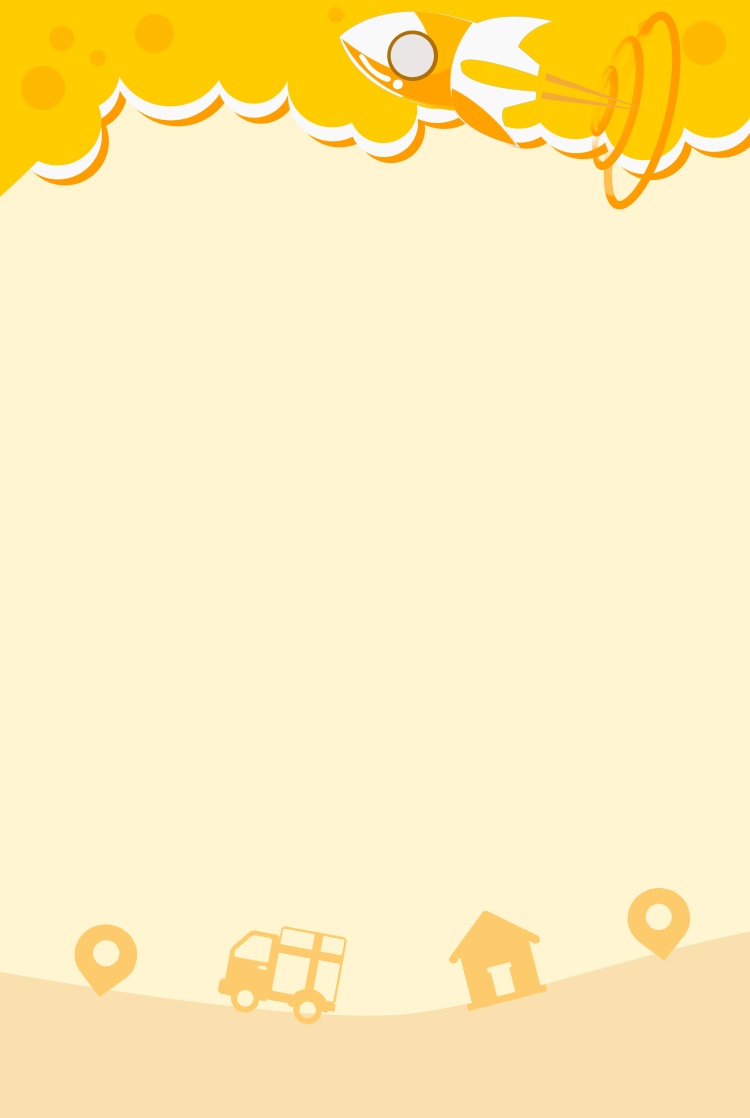
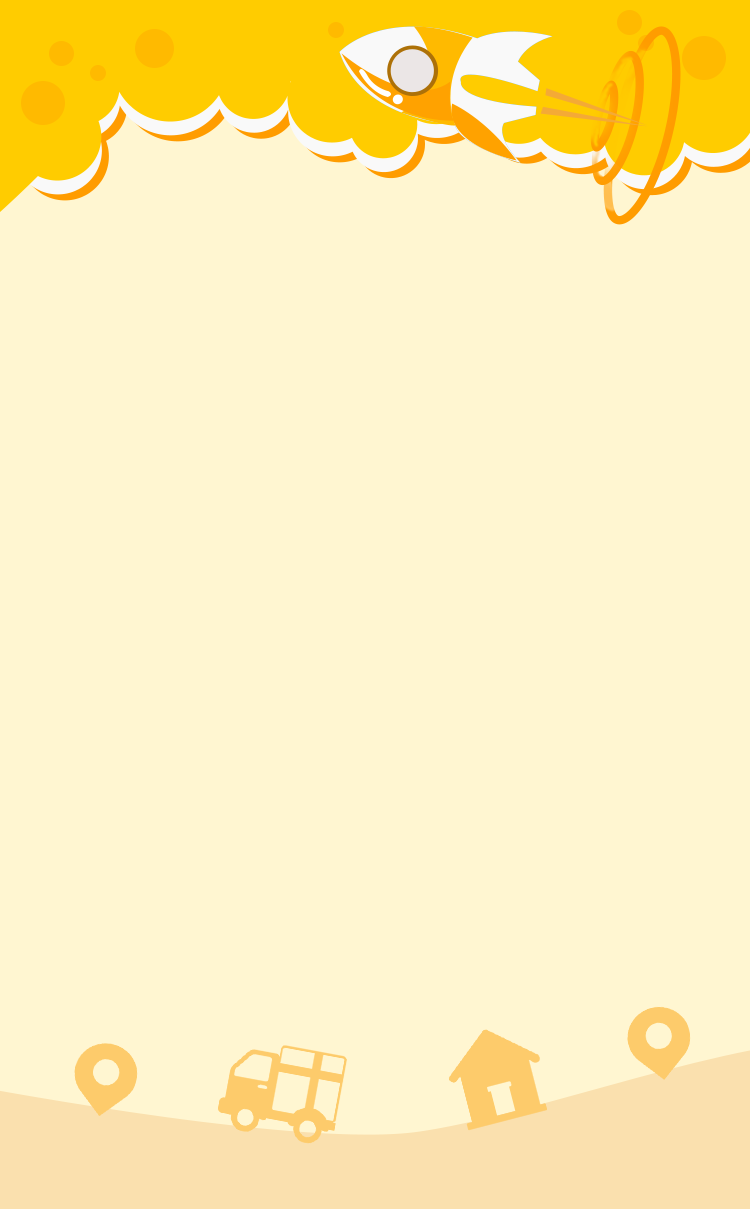
首页改版

Changed region(s): [[0.0, 0.7907, 1.0, 0.9428], [0.092, 0.0, 1.0, 0.1825], [0.828, 0.0, 0.92, 0.0608]]

diff --git a/css/logistics.css b/css/logistics.css
@@ -3,7 +3,6 @@ i,em{
 	font-style:normal;
 }
 img{
-	max-width:100%;
 	width:100%;
 }
 
@@ -12,16 +11,16 @@ input:-webkit-autofill {
   -webkit-text-fill-color: #fff;
 }
 input::-webkit-input-placeholder { /* WebKit browsers */
-  color: #6c6c6b;
+  color: #8d8d8b;
 }
 input:-moz-placeholder { /* Mozilla Firefox 4 to 18 */
-  color: #6c6c6b;
+  color: #8d8d8b;
 }
 input::-moz-placeholder { /* Mozilla Firefox 19+ */
-  color: #6c6c6b;
+  color: #8d8d8b;
 }
 input:-ms-input-placeholder { /* Internet Explorer 10+ */
-  color: #6c6c6b;
+  color: #8d8d8b;
 }
 *{
 	box-sizing:border-box;
@@ -53,47 +52,34 @@ body{
 	position:absolute;
 	left:10px;
 	top:11px;
+	z-index:1;
 }
 .l-i-con{
 	position:relative;
 }
 .l-i-box{
 	position:absolute;
-	top:19.84%;
+	top:20.4647%;
 	width:100%;
-	
+}
+.l-i-tip,.l-i-safe{
+	display:block;
+	line-height:1.1;
 }
 .l-i-tip{
-	width:95%;
-    perspective:600px;
-	padding:0 25px;
-    text-align:center;
-    font-size:2em;
-    line-height:26px;
-    /*background:url(../images/l_tipbg.png) no-repeat;
-    background-size:100%;*/
-    color:#33333d;
-    margin:0 auto;
-    position:relative;
+	font-size:1.5em;
+	color:#7f764f;
+	margin:0 0 8px 31px;
 }
-.l-i-tip .tx-info{
-	width:80%;
-	position:absolute;
-	top:50%;
-	left: 50%;
-    margin-left: -40%;
-}
-.tx{
-	padding:20px;
-	transform:rotateX(45deg);
-	background:#fae0ae;
-	border-radius:10px;
-	box-shadow:4px 4px 0 #ff9c00;
+.l-i-safe{
+	margin:0 18px;
+	text-align:center;
+	font-size:1.2em;
+	color:#33333d;
 }
 .l-i-checkB{
-	width:95%;
-	margin:11px auto;
-	padding:19px 27px; 
+	margin:0 18px 51px;
+	padding:19px 27px 33px; 
 	background:#fff;
 	border-radius:10px;
 	box-shadow:4px 4px 0 #ff9c00;
@@ -123,10 +109,11 @@ body{
 	line-height:1.1;
 	padding:12px 0 12px 22px;
 	border:none;
-	border:1px solid #33333d;
+	border:1px solid #c8c8c8;
+	color:#8d8d8b;
 	border-radius:4px;
 	padding-left:22px;
-	font-size:1.9em;
+	font-size:1.7em;
 	float:left;
 }
 .l-i-time{
@@ -203,9 +190,12 @@ body{
 	}
 } 
 @media screen and (max-width: 320px){
-   
 	.l-i-time{
 		font-size:1.6em;
+	}
+	.l-i-checkB{
+		margin:0 18px 40px;
+		
 	}
 }
 /* E index */

diff --git a/index.html b/index.html
@@ -18,28 +18,23 @@
 	  	<script src="js/logistics.js"></script>
 	</head>
 	<body class="l-i-body">
-		<header class="l-head">
-			<i class="l-i-logo"><img src="images/l_logo.png" alt="logo" /></i>
-		</header>
+		<i class="l-i-logo"><img src="images/l_logo.png" alt="logo" /></i>
 		<section class="l-i-con">
 			<img src="images/l_bg.png" />
 			<div class="l-i-box">
-				<div class="l-i-tip">
-					<div class="tx">
-						
-					</div>
-					<div class="tx-info">为了您的信息安全，请输入验证码，查询物流详情</div>
-				</div>
+				<span class="l-i-tip">亲爱的用户：</span>
+				<span class="l-i-tip">查询实时物流信息，请输入验证码</span>
 				<div class="l-i-checkB">
 					<span class="l-i-tel"><i></i>15210210890</span>
 					<span class="l-i-input clearfix">
 						<input type="text" class="l-i-code" placeholder="输入验证码" />
 						<input type="button" class="l-i-time j-time" value="60S" onclick="settime(this)" />
 					</span>
-					<span class="l-i-but j-search">查询</span>
+					<span class="l-i-but j-search" onclick="javascript:window.location.href='log-info.html'">查询</span>
 				</div>
+				<span class="l-i-safe">棒棒达快递承诺您的全部信息安全，请放心使用哦</span>
 			</div>
-				
+			
 		</section>
 		<div class="l-prompt">
 			<i class="l-prompt-txt">验证码错误</i>

diff --git a/log-info.html b/log-info.html
@@ -21,15 +21,15 @@
 		</header>
 		<section class="l-dispatch">
 			<ul class="l-dis-list">
-				<li><i>物流状态：</i><em>小件员正在配送</em></li>
-				<li><i>承运公司：</i>棒棒达快递</li>
-				<li><i>　运单号：</i>BBD186861166</li>
-				<li><i>客服电话：</i><em>400-8345690</em></li>
+				<li><i>　物流状态：</i><em>小件员正在配送</em></li>
+				<li><i>　承运公司：</i>棒棒达快递</li>
+				<li><i>　　运单号：</i>BBD186861166</li>
+				<li><i>小件员电话：</i><em>400-8345690</em></li>
 			</ul>
 		</section>
 		<!-- S 订单轨迹 -->
 		<section class="l-bod l-line">
-			<h2 class="l-sub-tit">订单轨迹</h2>
+			<h2 class="l-sub-tit">包裹实时位置</h2>
 			<div class="l-pos">
 				<a href="log-area.html" class="l-pos-a"></a>
 				<div class="l-map" id="allmap">
@@ -44,7 +44,7 @@
 		
 		<!-- S 物流信息 -->
 		<section class="l-bod l-log-info">
-			<h2 class="l-sub-tit">物流信息</h2>
+			<h2 class="l-sub-tit">订单物流状态</h2>
 			<div class="l-log-box">
 				<ul class="l-logList">
 					<li class="l-logList-cur clearfix">

diff --git a/js/logistics.js b/js/logistics.js
@@ -8,10 +8,6 @@ $(function(){
 	function mapHei(){
 		var winhei=$(window).height();
 		$(".l-mapF").css({height:winhei-48});
-		var tipE=$(".l-i-tip .tx-info");
-		var tipHei=tipE.height();
-		$(".l-i-tip .tx").css({height:tipHei+60});
-		tipE.css({marginTop:-(tipHei)/2})
 	};
 	// E 地图高度
 	
